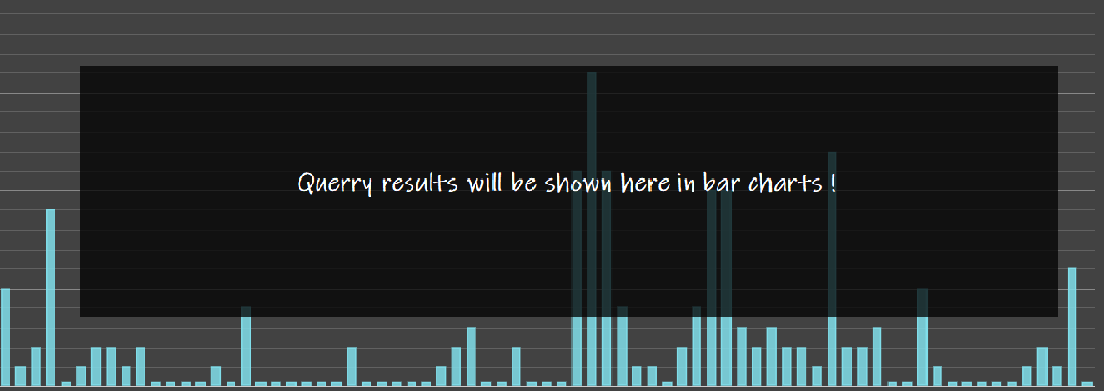
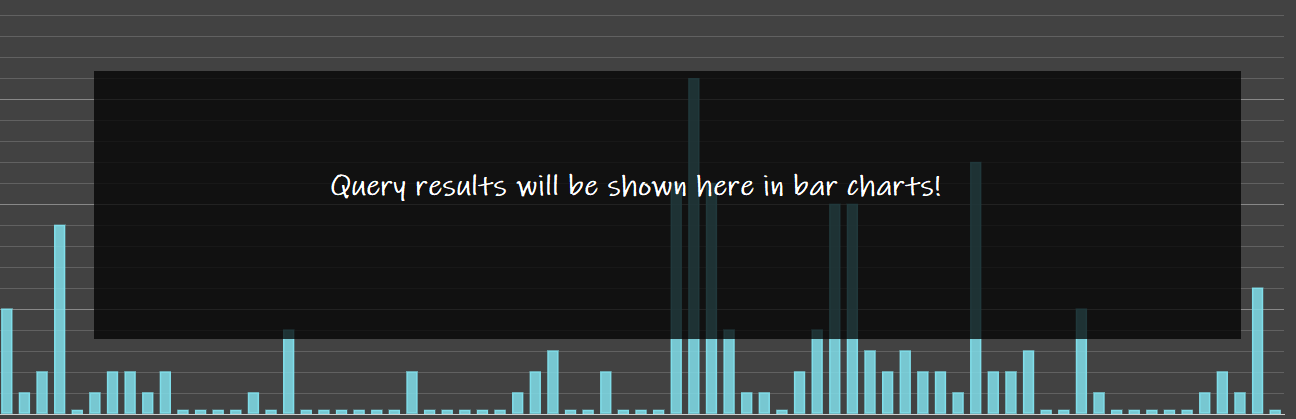
First Good GUI

diff --git a/DocSnooper/engine.html b/DocSnooper/engine.html
@@ -225,20 +225,20 @@
                 </div>
             </div>
         </header>
-        <section class="page-section portfolio" id="portfolio" style="padding: 0px 0px 0px;" style="background-image: url('dummy.png');">
-            <div class="container" >
+        
+            <div class="col-12" >
                 
                 <div >
                     <form>
                         
                         <div class="row align-items-center" style="padding-top: 1px;">
                             
-                            <div class="col-12" id="container">
+                            <div class="col-12" id="container" style="width: 100%; height: 420px;">
                                 <img src="dummy.png">
                             </div>
 
                             <div class="col-12">
-                                <h3><a> RESULTS WILL BE SHOWN HERE ... </a><br></h3>
+                                <h3><a> ... </a><br></h3>
                                 
                                 <hr>
                             </div>
@@ -248,7 +248,7 @@
                     </form>
                 </div>
             </div>
-        </section>
+        
         
 
         <script src="https://cdnjs.cloudflare.com/ajax/libs/jquery/3.4.1/jquery.min.js"></script>
